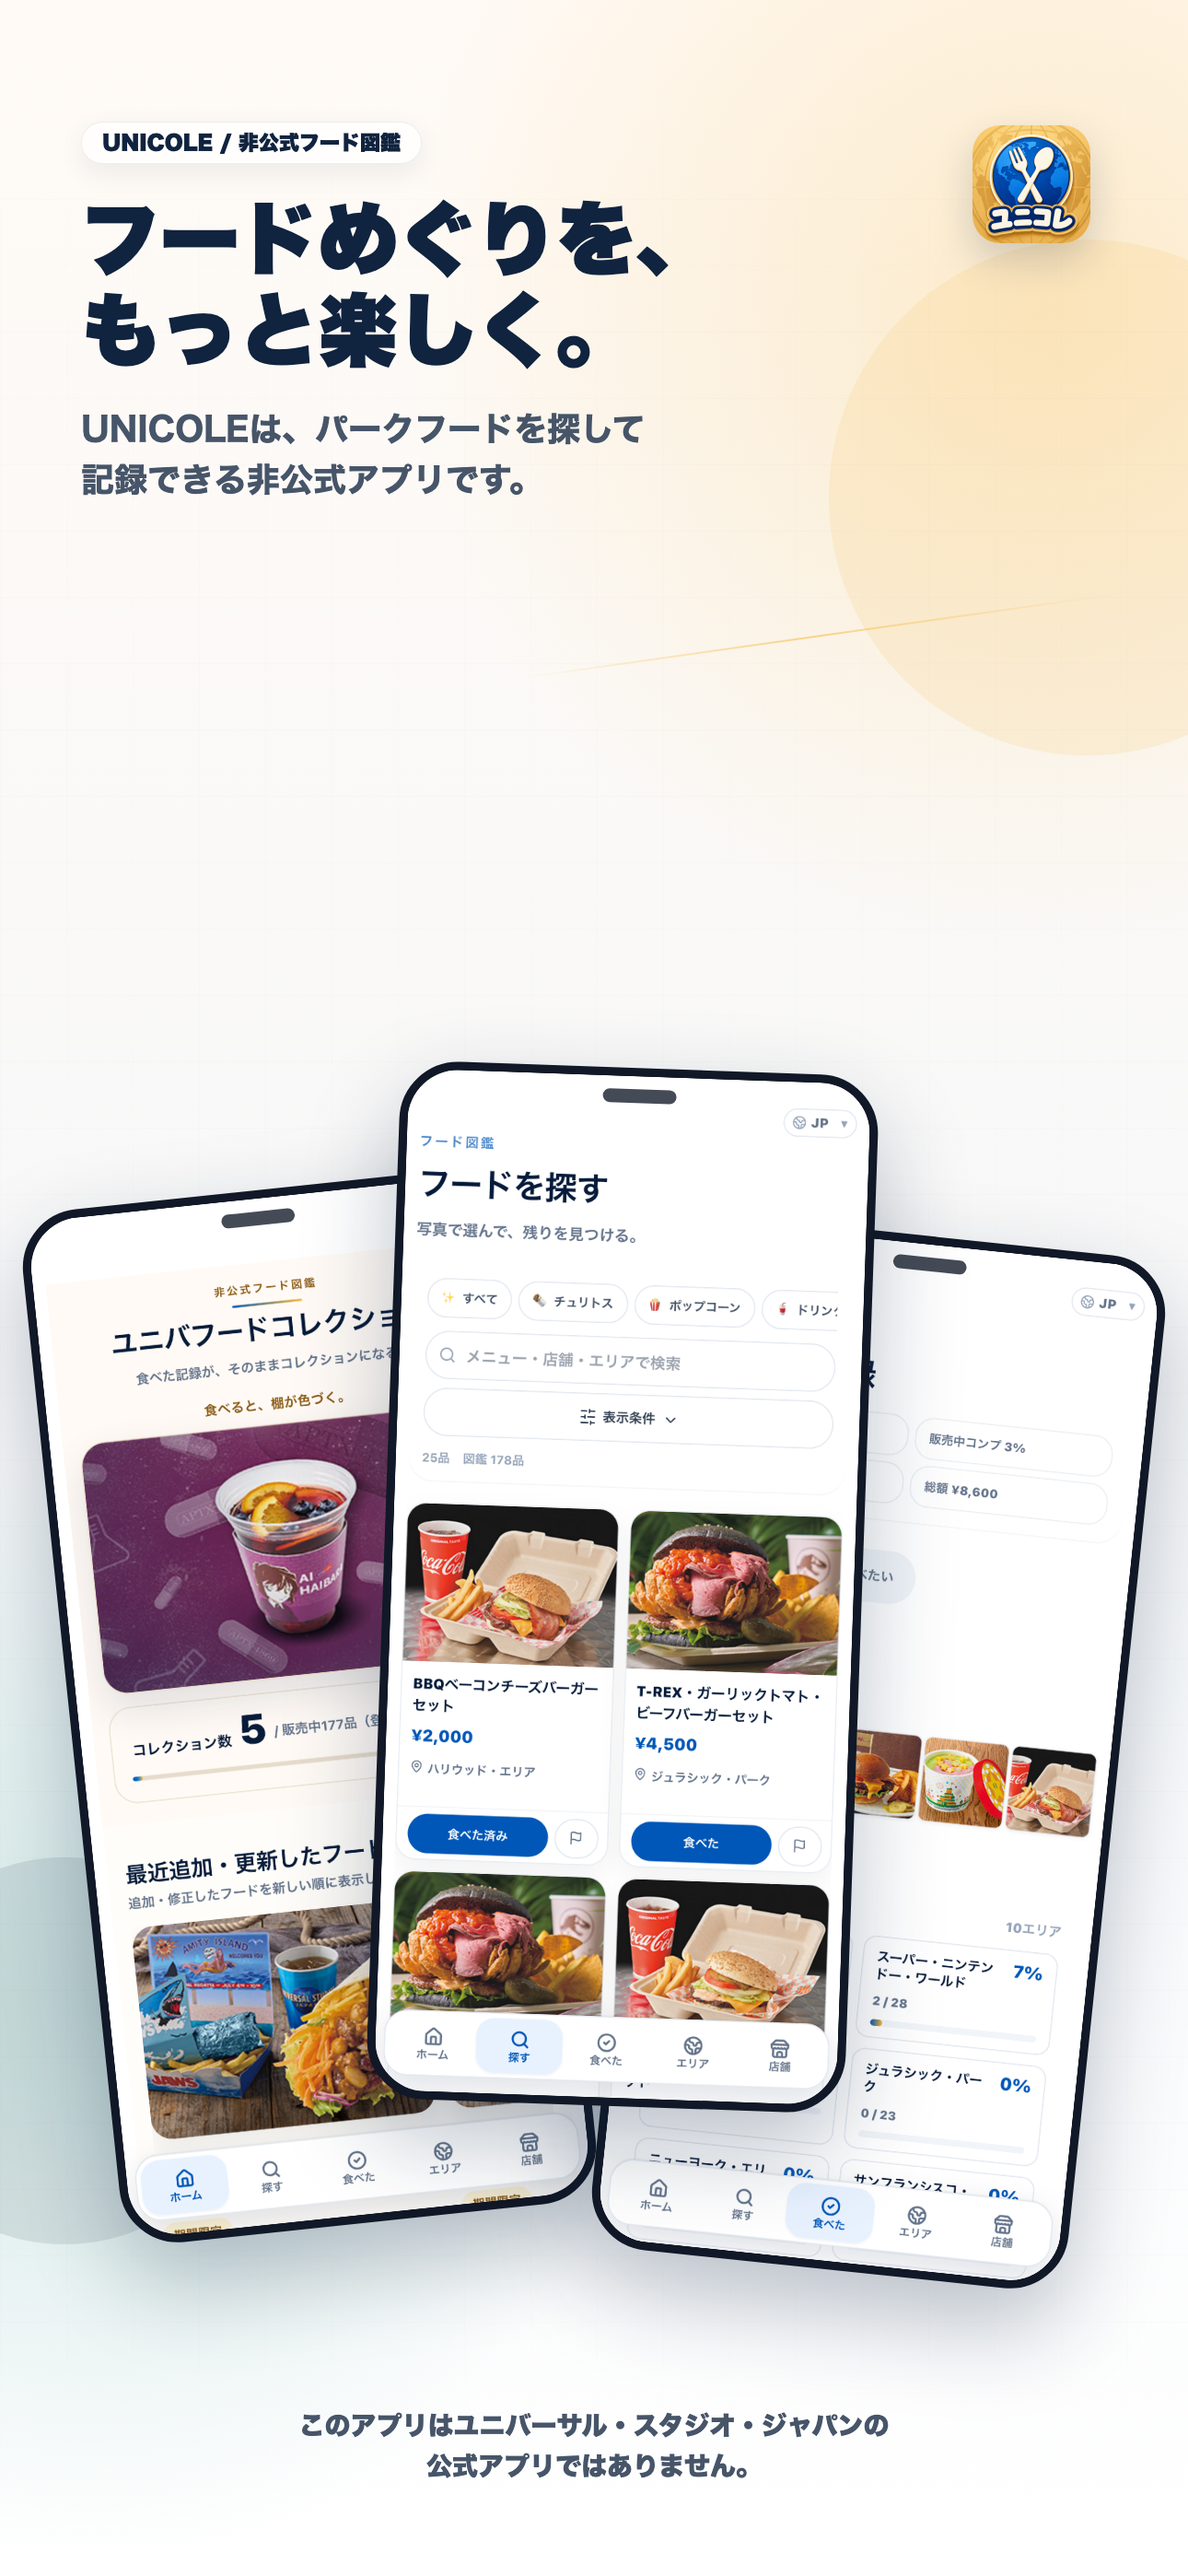
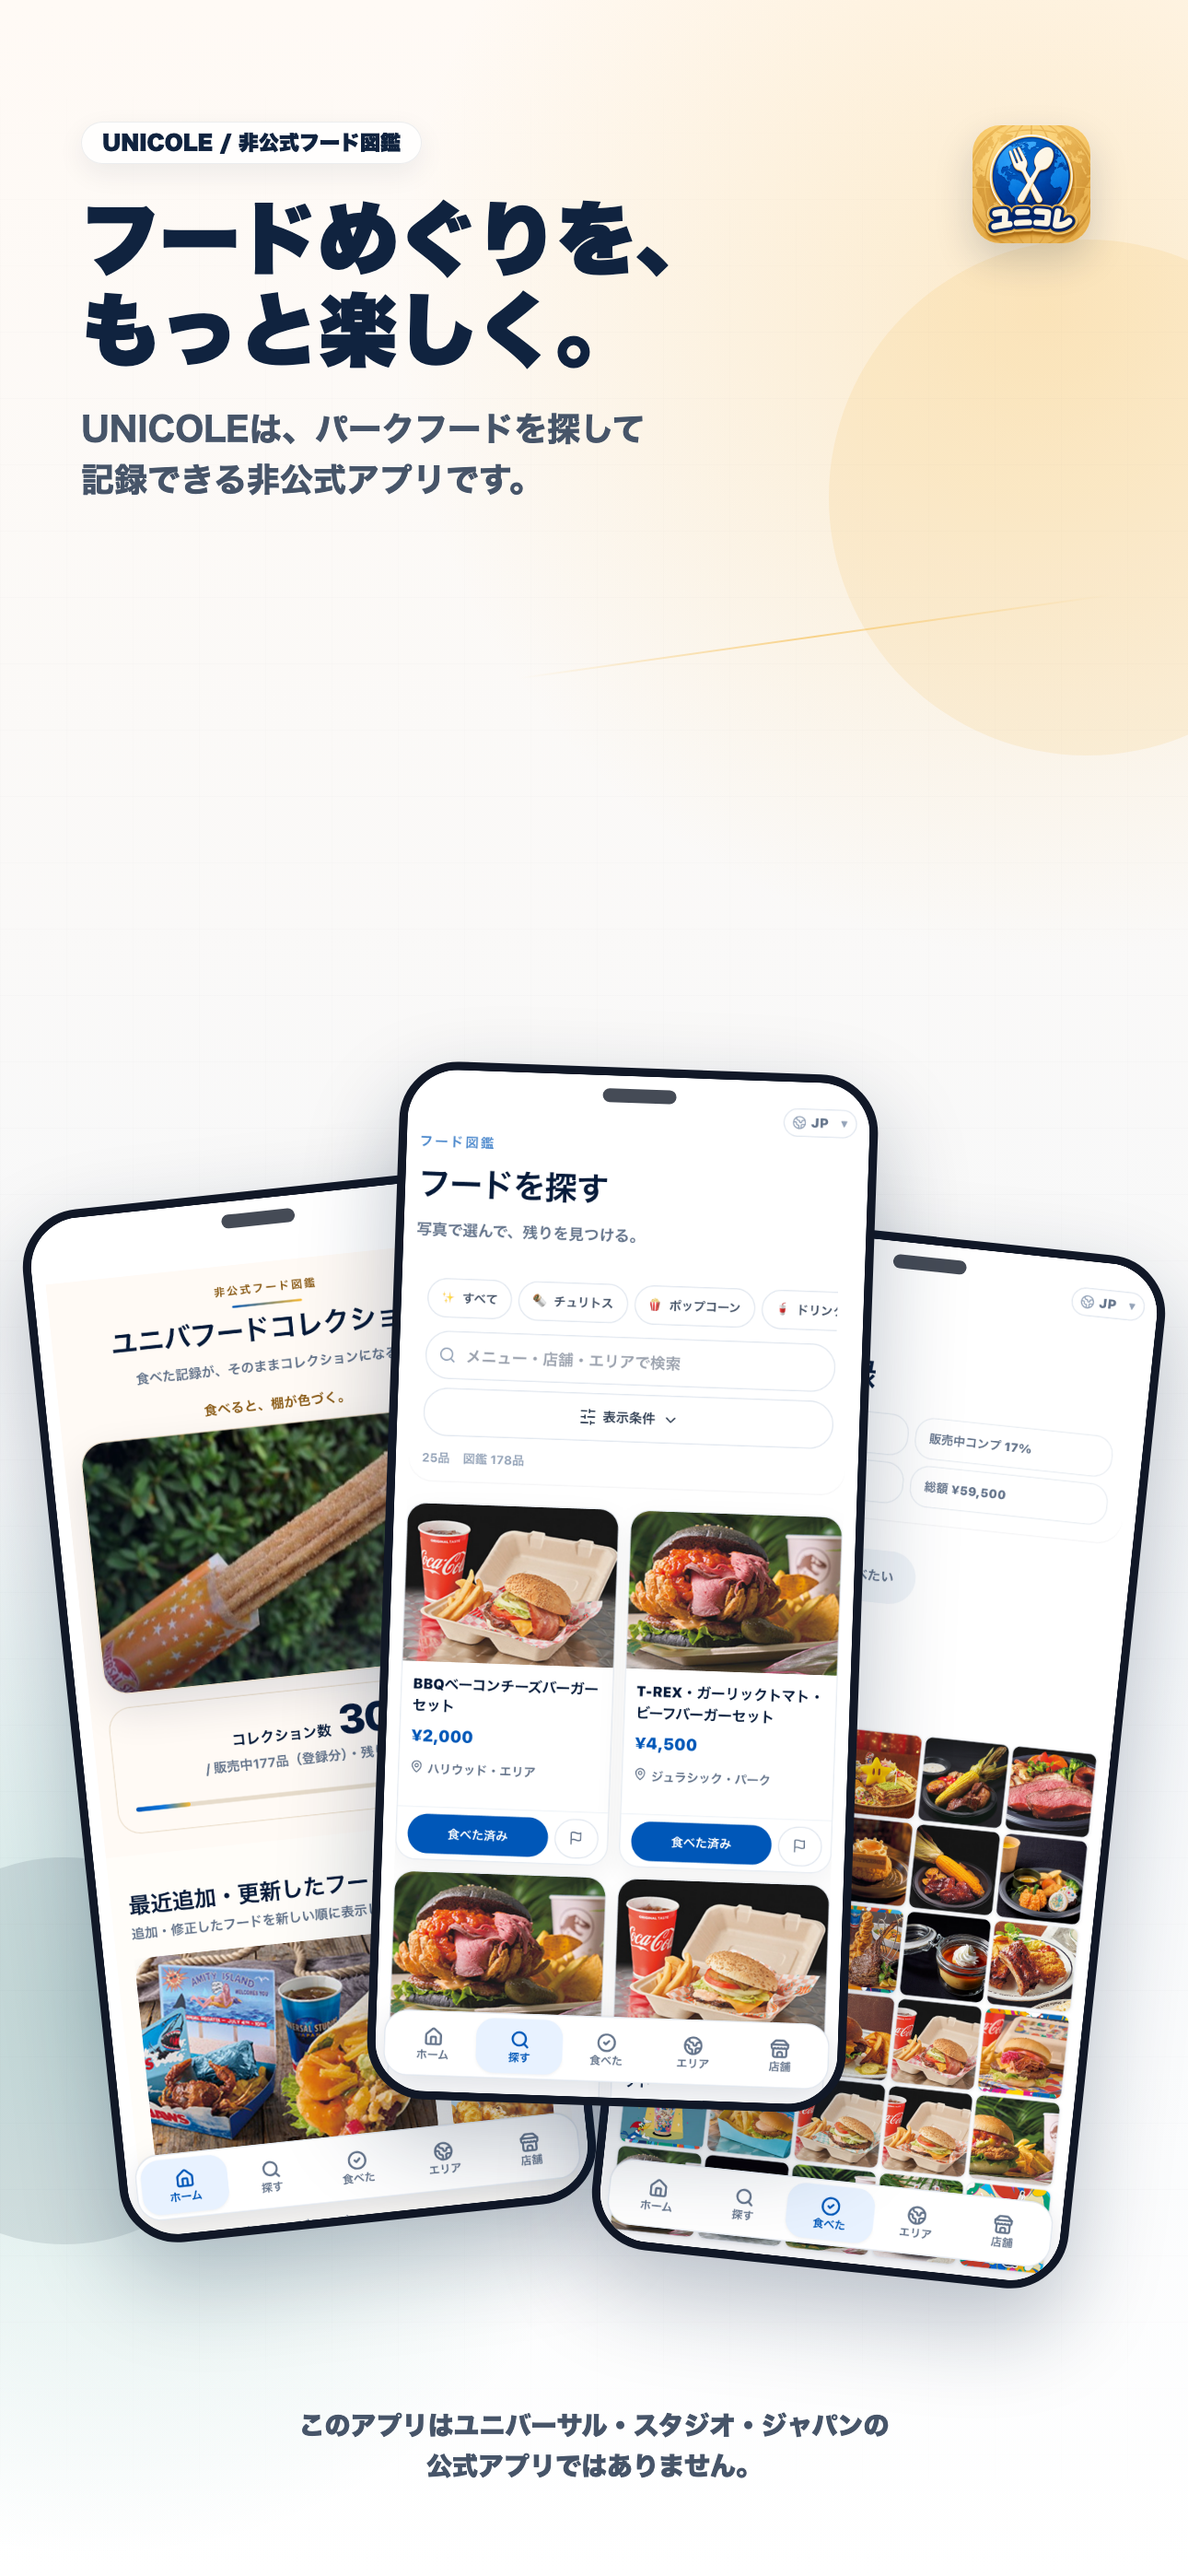
refine app store screenshots and restore simulator

Changed region(s): [[0.062, 0.529, 0.4651, 0.8712], [0.4961, 0.6534, 0.9302, 0.8712]]

diff --git a/scripts/app-store-screenshots/create-app-store-screenshots.ts b/scripts/app-store-screenshots/create-app-store-screenshots.ts
@@ -17,6 +17,7 @@ type CapturedScreen = {
   key: string;
   path: string;
   scrollText?: string;
+  scrollY?: number;
 };
 
 type Slide = {
@@ -41,13 +42,48 @@ const chromePath = process.env.CHROME_PATH ?? "/Applications/Google Chrome.app/C
 const phoneViewport = { width: 430, height: 932, deviceScaleFactor: 3 };
 const slideViewport = { width: 1290, height: 2796, deviceScaleFactor: 1 };
 
-const eatenLogs = [
-  { foodId: "food-u0o9uo", status: "eaten", eatenAt: "2026-06-28T10:30:00.000Z", eatenCount: 1, spentAmount: 2600, rating: 5, memo: "家族で食べたお気に入り" },
-  { foodId: "food-1k9ohlg", status: "eaten", eatenAt: "2026-06-27T08:30:00.000Z", eatenCount: 1, spentAmount: 900, rating: 4 },
-  { foodId: "food-ehewed", status: "eaten", eatenAt: "2026-06-25T11:00:00.000Z", eatenCount: 1, spentAmount: 2500, rating: 4 },
-  { foodId: "food-15srg5l", status: "eaten", eatenAt: "2026-06-22T13:20:00.000Z", eatenCount: 1, spentAmount: 600, rating: 5 },
-  { foodId: "food-hyfchi", status: "eaten", eatenAt: "2026-06-19T12:40:00.000Z", eatenCount: 1, spentAmount: 2000, rating: 4 }
+const eatenFoodIds = [
+  "food-62sv4l",
+  "food-u0o9uo",
+  "food-cygfys",
+  "food-15srg5l",
+  "food-up3lba",
+  "food-1reufss",
+  "food-2qri4c",
+  "food-1dm0ouy",
+  "food-1m8i41b",
+  "food-1k9ohlg",
+  "food-c4k9tn",
+  "food-17k66nk",
+  "food-16q65hw",
+  "food-1efoz95",
+  "food-1hhn874",
+  "food-ehewed",
+  "food-1f1v45i",
+  "food-ajq9zg",
+  "food-dn0p3s",
+  "food-rvos7a",
+  "food-hyfchi",
+  "food-1ulknep",
+  "food-1qzo3v2",
+  "food-7yyri",
+  "food-14hntqo",
+  "food-19tglum",
+  "food-1x0ir52",
+  "food-yhtmyt",
+  "food-alnomv",
+  "food-9s2577"
 ];
+
+const eatenLogs = eatenFoodIds.map((foodId, index) => ({
+  foodId,
+  status: "eaten",
+  eatenAt: new Date(Date.UTC(2026, 5, 28 - Math.floor(index / 3), 10 + (index % 7), (index * 7) % 60)).toISOString(),
+  eatenCount: 1,
+  spentAmount: [2600, 3500, 900, 600, 2500, 1800][index % 6],
+  rating: 3 + (index % 3),
+  ...(index === 1 ? { memo: "家族で食べたお気に入り" } : {})
+}));
 
 const localStorageSeed: Record<string, unknown> = {
   "uniba-food-logs-v1": eatenLogs,
@@ -65,7 +101,7 @@ const screens: CapturedScreen[] = [
   { key: "recent", path: "/", scrollText: "最近追加・更新したフード" },
   { key: "search", path: "/foods?category=burger&sale=active" },
   { key: "detail", path: "/foods/food-u0o9uo" },
-  { key: "eatenAction", path: "/foods/food-u0o9uo" },
+  { key: "eatenAction", path: "/foods/food-u0o9uo", scrollY: 370 },
   { key: "eaten", path: "/eaten" },
   { key: "areas", path: "/areas" },
   { key: "shops", path: "/stores" },
@@ -346,6 +382,12 @@ async function captureAppScreen(port: number, screen: CapturedScreen, tempDir: s
         `
       });
       await delay(900);
+    }
+    if (screen.scrollY) {
+      await cdp.send("Runtime.evaluate", {
+        expression: `window.scrollTo({ top: ${screen.scrollY}, behavior: "instant" });`
+      });
+      await delay(700);
     }
     await cdp.send("Runtime.evaluate", {
       expression: `
